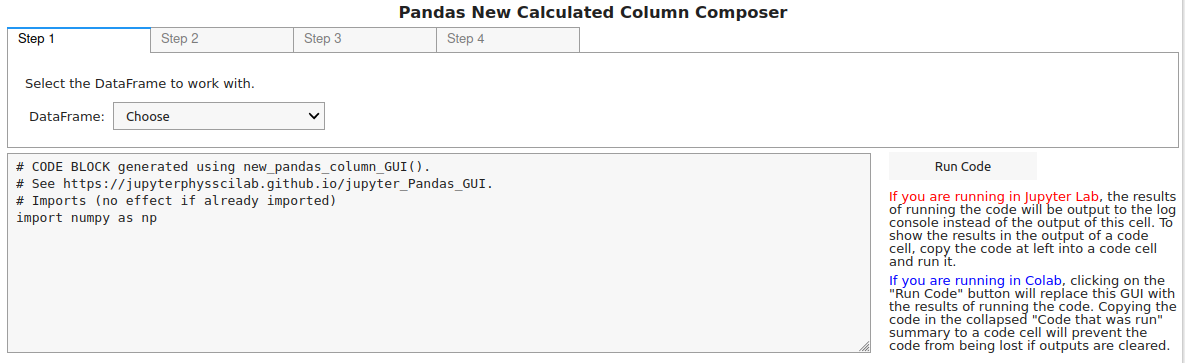
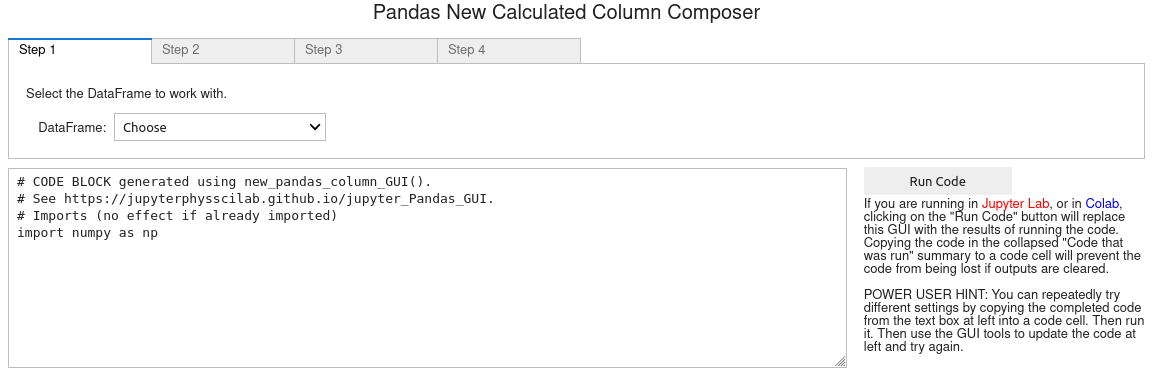
Doc and instruction updates

diff --git a/docs/Lab_Colab_vs_NBClassic.html b/docs/Lab_Colab_vs_NBClassic.html
@@ -27,16 +27,10 @@
         cell.</li>
 </ul>
 <h2>Running the code in Lab and Colab</h2>
-<uL>
-    <li><span style="color:blue;">In Colab</span> the code can be run by
-        clicking on the "run code" button and the results will appear in
-        the output of the cell.</li>
-    <li><span style="color:red;">In Lab</span> clicking on the "run code"
-        button will output the results to the log console,
-        which defaults to appearing at the bottom of the window. To make
-        the results appear in the output of a notebook cell the code must
-        be copied to a cell and the cell run.</li>
-</uL>
+<p>The code can be run by clicking on the "run code" button and the results
+    will appear in the output of the cell. To make sure that the results can be
+    reproduced if the cell outputs are cleard, copy the code that was run
+    from the collapsed "code that was run" summary to a separate code cell.</p>
 <a href="https://jupyterphysscilab.github.io/jupyter_Pandas_GUI/">
     Return to Documentation Home Page</a>
 </body>

diff --git a/pandas_GUI/utils.py b/pandas_GUI/utils.py
@@ -328,8 +328,8 @@ class build_run_snip_widget(ipywidgets.GridBox):
                                       '<p>If you are running in ' \
                                       '<span style="color:red;">Jupyter ' \
                                       'Lab</span>, ' \
-                                      'or <span style = "color:blue;">' \
-                                      'in Colab</span>, ' \
+                                      'or in <span style = "color:blue;">' \
+                                      'Colab</span>, ' \
                                       'clicking on the "Run Code" button ' \
                                       'will replace this GUI with the ' \
                                       'results of running the code. Copying ' \
@@ -337,13 +337,14 @@ class build_run_snip_widget(ipywidgets.GridBox):
                                       'that was run" summary to a code cell ' \
                                       'will prevent the code ' \
                                       'from being lost if outputs are ' \
-                                      'cleared.</p><p>POWER USER HINT: ' \
+                                      'cleared.</p><br/>' \
+                                      '<p>POWER USER HINT: ' \
                                       'You can repeatedly try different ' \
                                       'settings by copying the completed ' \
                                       'code from the text box at left into ' \
                                       'a code cell. Then run it. Then use ' \
                                       'the GUI tools to update the code at ' \
-                                      'left and then try again.' \
+                                      'left and try again.' \
                                       '</p></div>')
         self.dobox = VBox([self.dobutton,self.instructions])
         def onRunCode(change):
